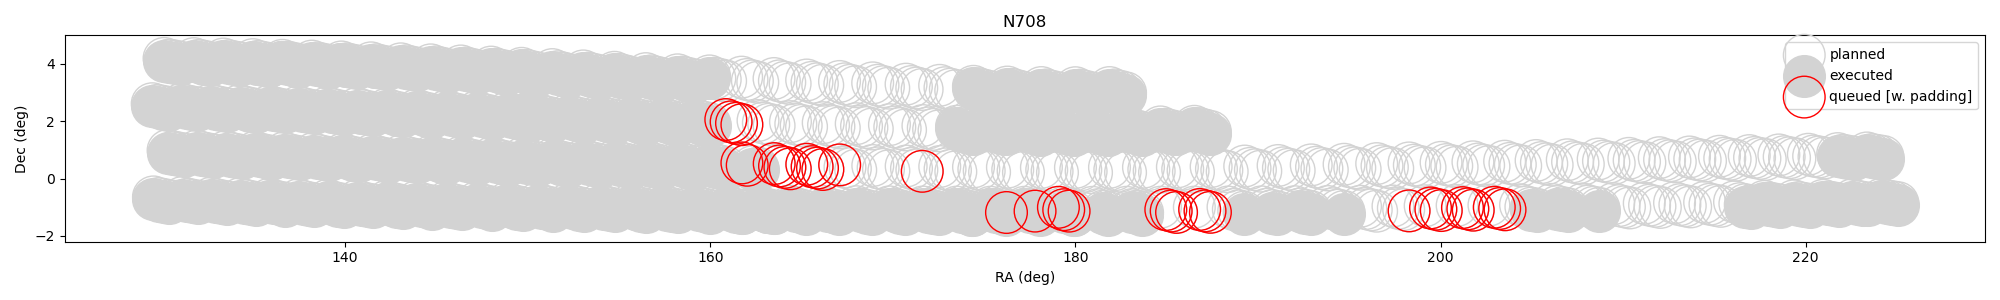
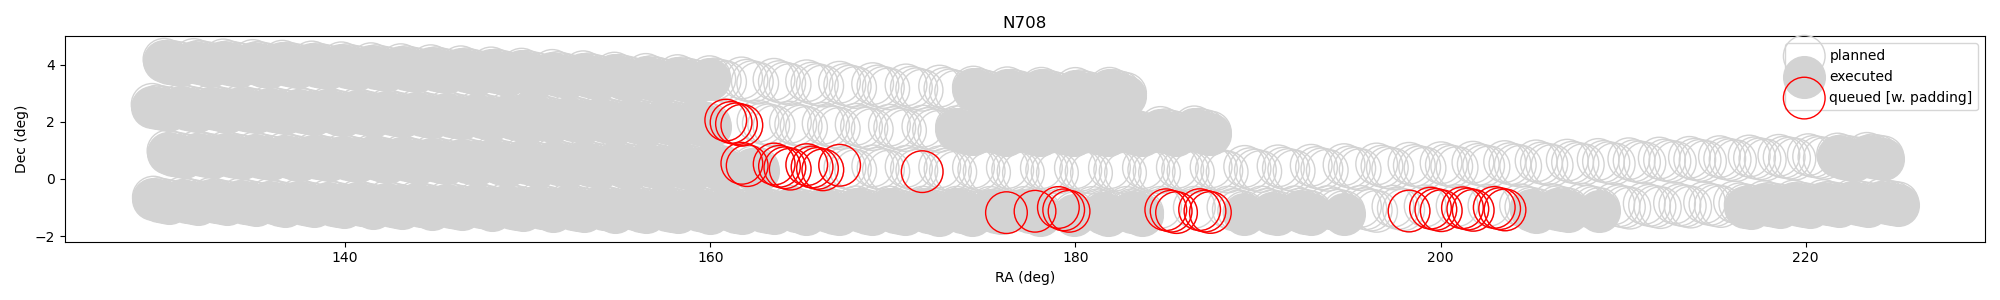
update queued.png to only show pointings with teff>min_teff exposures

diff --git a/scripts/sigjson_s2023a.py b/scripts/sigjson_s2023a.py
@@ -139,16 +139,17 @@ if __name__ == '__main__':
     if args.make_figure:
         halpha_pointings, oiii_pointings =      our_pointings.load_springfields()
         pointings_d = {'N540':oiii_pointings,'N708':halpha_pointings} 
+        teff_min = {'N540':300, 'N708':200}[obsfilters[night_index]]
         pointings = pointings_d[obsfilters[night_index]]
         coo = observe.CopilotOutput ( args.copilot_file, pointings )
-
+        completed = coo.identify_completed_pointings ( teff_min )
         to_obs = is_queued.loc[~is_queued['qstamp'].isna()]
         
         fig, ax = plt.subplots(1,1, figsize=(20,3))
 
         plt.scatter ( pointings['RA'], pointings['dec'], 
                     facecolor='None', edgecolor='lightgrey', s=30**2, lw=1, label='planned' )
-        plt.scatter ( coo.merian_sidecar['racenter'], coo.merian_sidecar['deccenter'], s=30**2, color='lightgrey', label='executed')
+        plt.scatter ( completed['racenter'], completed['deccenter'], s=30**2, color='lightgrey', label='executed')
         pointings = pointings_d[obsfilters[night_index]]
         plt.scatter ( pointings.reindex(to_obs.index)['RA'], pointings.reindex(to_obs.index)['dec'], 
                     facecolor='None', edgecolor='r', s=30**2, lw=1, label='queued [w. padding]' )

diff --git a/python/skipper/observe.py b/python/skipper/observe.py
@@ -616,6 +616,13 @@ class CopilotOutput ( object ):
         t2 = 10.**( (self.sidecar['sky']-skySB_0)/2.5 )
         return t0*t1*t2*self.sidecar['exptime']
         
+    def identify_completed_pointings ( self, min_teff ):
+        merian_sidecar = self.merian_sidecar        
+        sorter = merian_sidecar.sort_values('t_eff')['object'].duplicated(keep='last')
+        merian_sidecar = merian_sidecar.loc[~sorter] # \\ remove frames that        
+        # \\ have already been reobserved; only consider the highest t_eff exposure
+        return merian_sidecar.loc[merian_sidecar['t_eff']>=min_teff]
+    
     def flag_for_reobservation ( self, min_teff=200., ):
         '''
         Flag exposures that need reobservation
